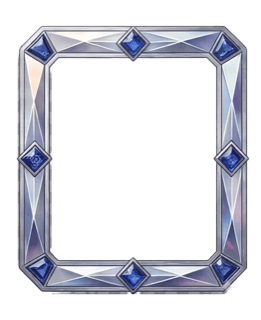
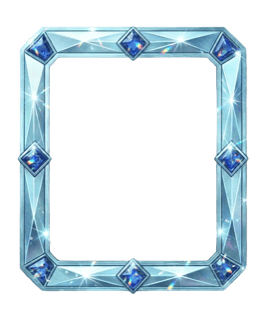
chore: optimizar el marco de platino y recalibrar su encuadre
El archivo nuevo entró a 928x1137 y 777 KB; queda en 261x320 y 23 KB, a la par
de los otros cuatro marcos.

El arte cambió la abertura, así que los tres valores de encuadre ya no le
correspondían: se vuelven a medir sobre el canal alfa del archivo nuevo (mayor
círculo inscrito en la zona transparente, con el mismo margen de respiro que el
resto). La escala baja de 1.18 a 1.16 porque la abertura nueva es más generosa
que la anterior y necesita menos compensación.

Con eso su emblema renderiza a 167 px, contra 163-175 del resto.

Changed region(s): [[0.0613, 0.0625, 0.9502, 0.9375]]

diff --git a/apps/web/src/features/insignias/MarcoRango.module.css b/apps/web/src/features/insignias/MarcoRango.module.css
@@ -73,11 +73,11 @@
 }
 
 .platino {
-  /* Abertura cerrada: sin el factor, su emblema queda al 81 % del de plata. */
-  --marco-escala: 1.18;
-  --marco-x: 50.6%;
-  --marco-y: 46.3%;
-  --marco-diametro: 54%;
+  /* Abertura cerrada: sin el factor, su emblema queda por debajo del resto. */
+  --marco-escala: 1.16;
+  --marco-x: 51%;
+  --marco-y: 45%;
+  --marco-diametro: 55.3%;
 }
 
 .diamante {
